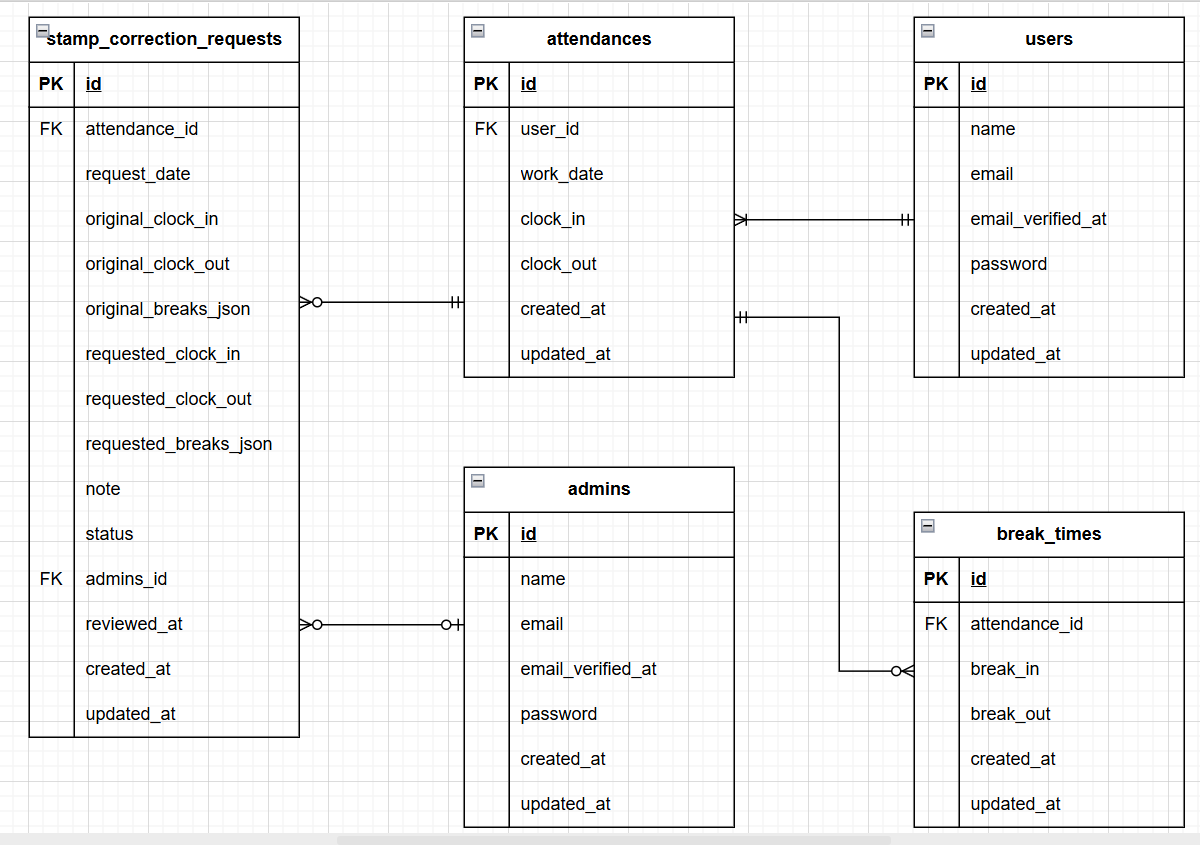
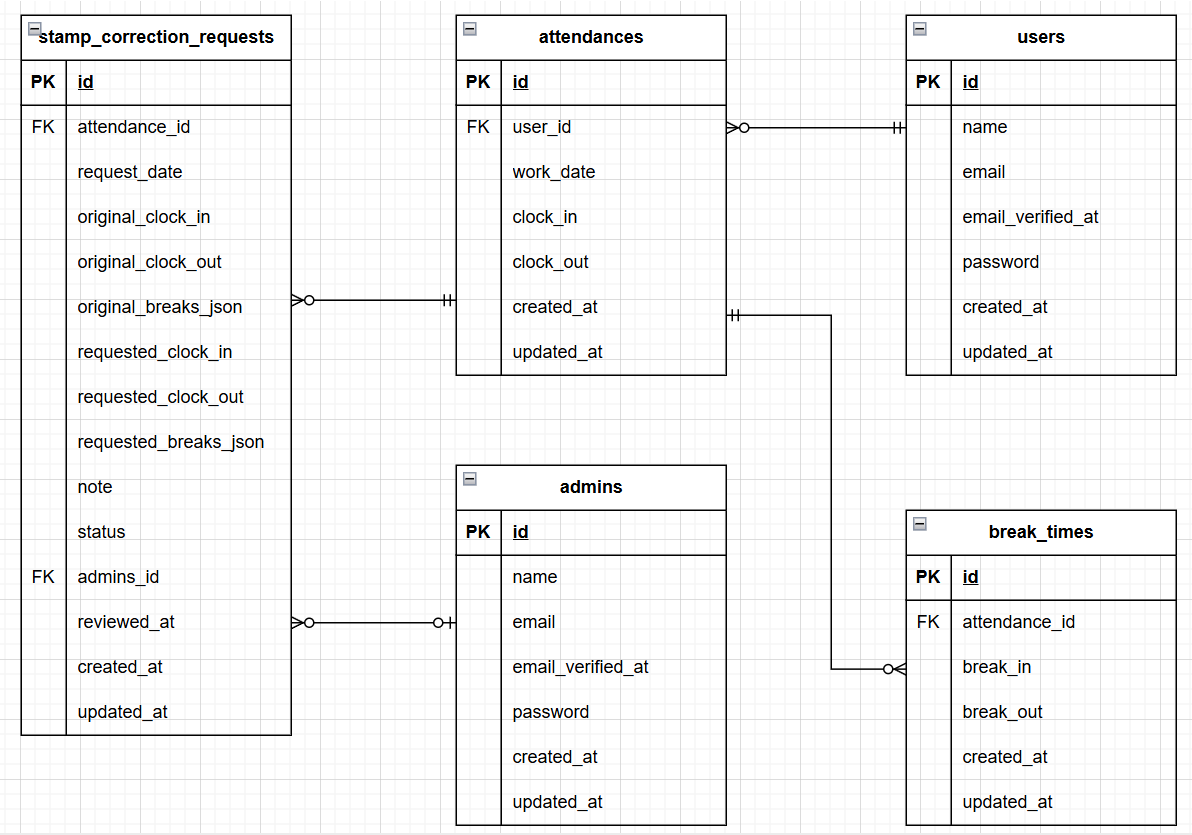
ER図とドキュメントの修正

Changed region(s): [[0.0, 0.0, 0.9933, 1.0], [0.8691, 0.4982, 0.9002, 0.5293], [0.6208, 0.4982, 0.6518, 0.5293]]

diff --git a/docs/test-setup.md b/docs/test-setup.md
@@ -32,7 +32,7 @@ MAIL_USERNAME=your-mailtrap-username
 MAIL_PASSWORD=your-mailtrap-password
 MAIL_ENCRYPTION=tls
 MAIL_FROM_ADDRESS=（あなたのメールアドレス）
-MAIL_FROM_NAME="${time-attendance-management}"
+MAIL_FROM_NAME="Time Attendance Management"
 
 ```
 APP_KEY は空のままにせず、後で生成します。
@@ -48,7 +48,6 @@ php artisan key:generate --env=testing
 5. キャッシュのクリア
 設定を反映させるために、キャッシュをクリアします。
 
-bash
 ```bash
 php artisan config:clear
 ```
@@ -86,12 +85,11 @@ xml
 9. テストの実行
 テスト環境がセットアップできたら、以下のコマンドを使ってテストを実行できます。
 
-bash
 ```bash
 php artisan test
 ```
 # または直接 PHPUnit を実行
-bash
+
 ```bash
 vendor/bin/phpunit
 ```
